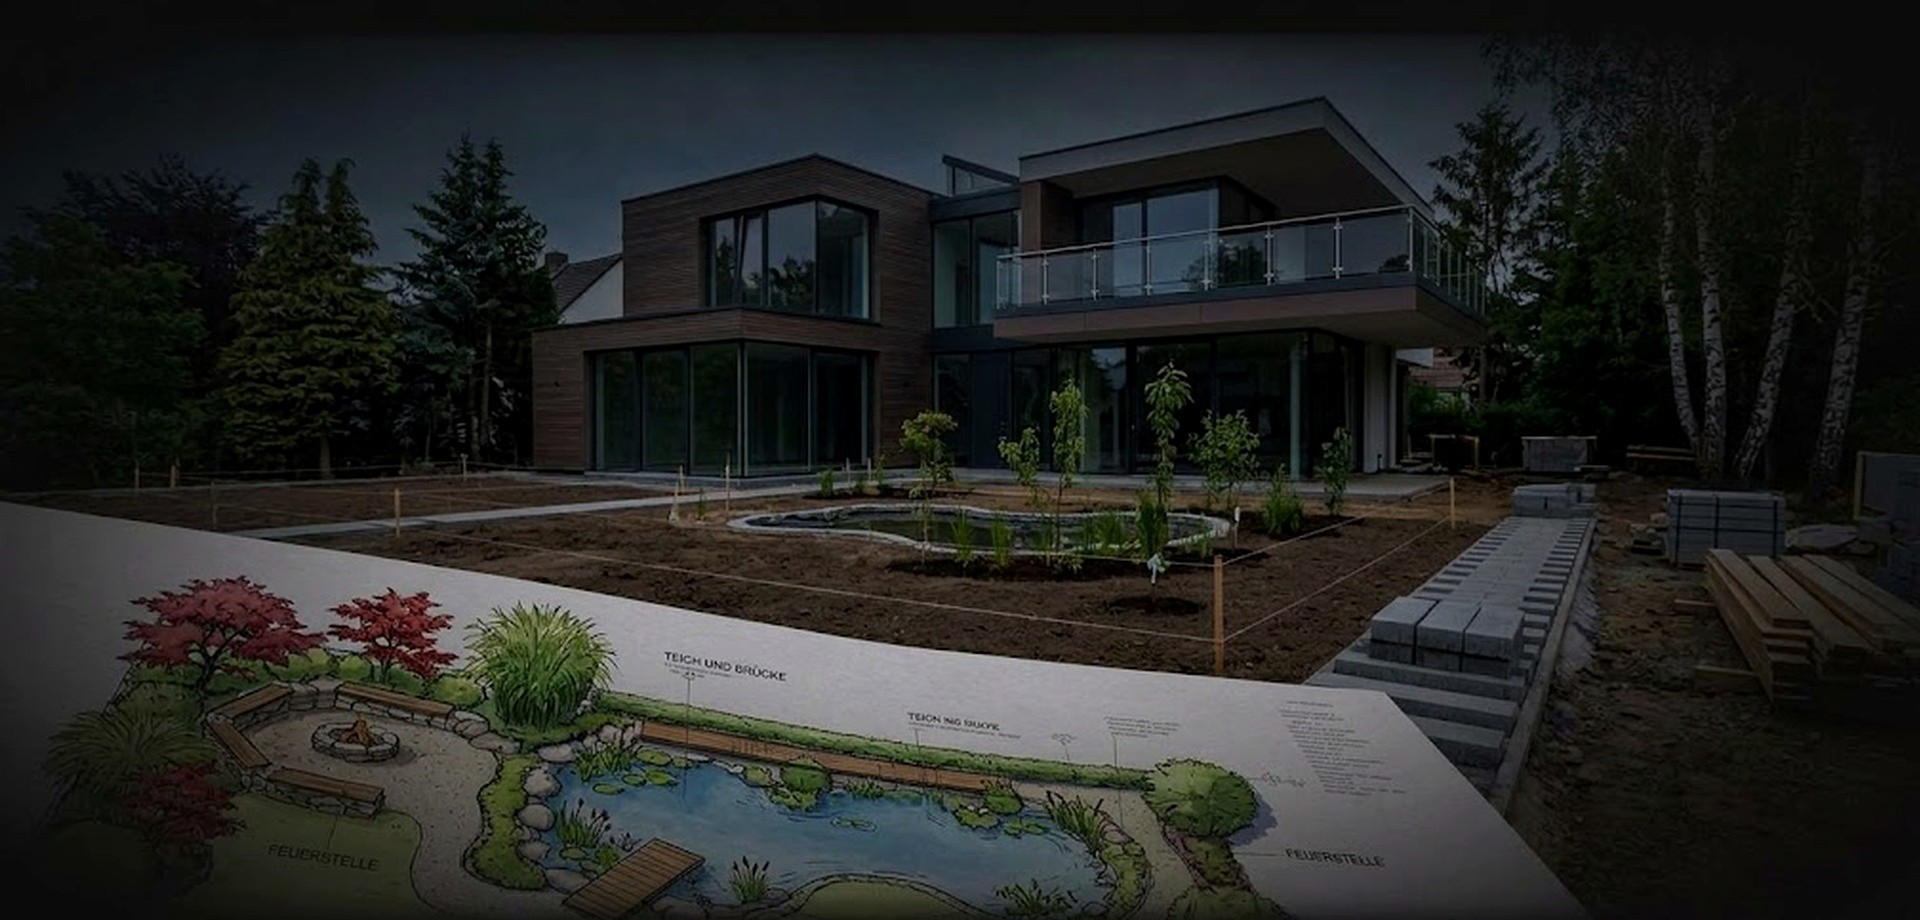
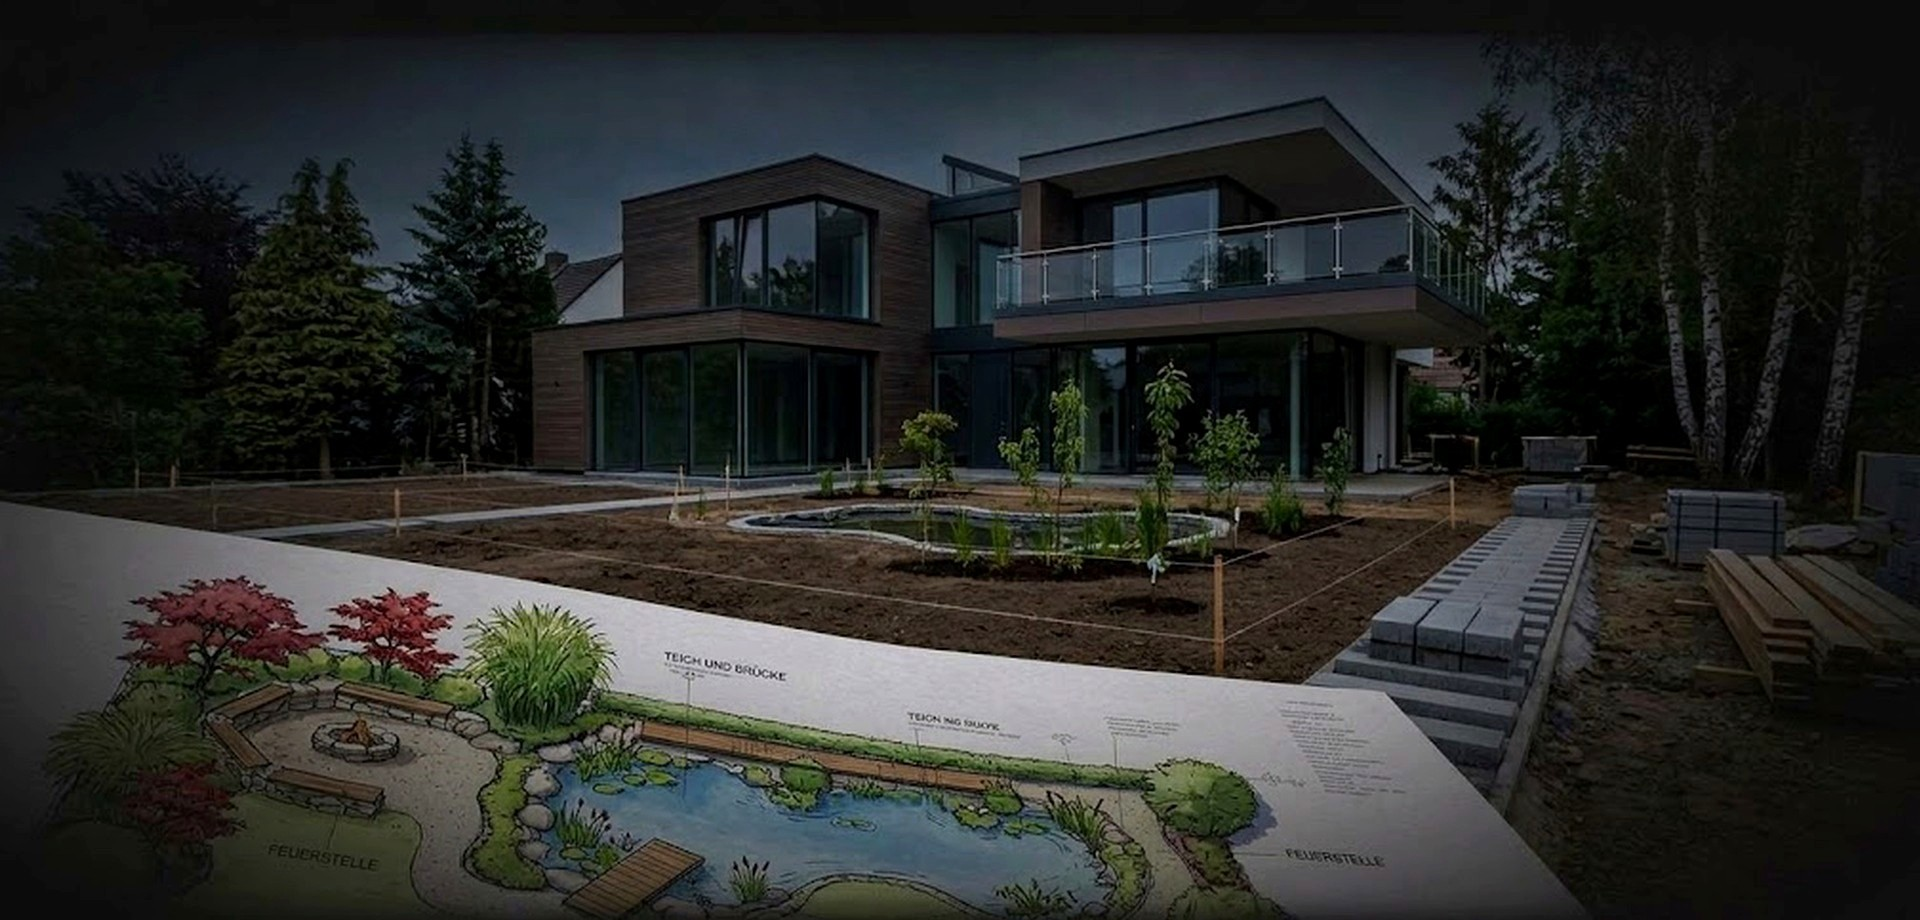
Startseite: Hero-Bild heller, Text kleiner und weiss, Label zu Meyer Gartenglanz
Claude-Session: https://claude.ai/code/session_01LmPg892E6TVTSN9vFyRnRh

Changed region(s): [[0.1875, 0.6087, 0.7188, 0.8217]]

diff --git a/index.html b/index.html
@@ -54,8 +54,8 @@ tailwind.config={theme:{extend:{"colors":{"on-error-container":"#93000a","surfac
   <div class="absolute inset-0 bg-gradient-to-r from-black/50 to-transparent"></div>
   <div class="relative z-10 w-full max-w-container-max mx-auto px-margin-mobile lg:px-margin-desktop pt-20 flex flex-col items-start">
     <div class="max-w-3xl">
-      <span class="relative inline-block font-label-sm text-primary mb-4 tracking-widest uppercase pb-2">Meisterhafte Gartengestaltung<span class="absolute left-0 -bottom-0 w-10 h-[3px] bg-primary"></span></span>
-      <h1 class="font-headline-xl text-white mb-6 leading-[1.05] uppercase text-5xl md:text-7xl font-extrabold tracking-tight">Ihr Traumgarten<br><span class="text-primary">im Thurgau.</span></h1>
+      <span class="relative inline-block font-label-sm text-white mb-4 tracking-widest uppercase pb-2">Meyer Gartenglanz<span class="absolute left-0 -bottom-0 w-10 h-[3px] bg-primary"></span></span>
+      <h1 class="font-headline-xl text-white mb-6 leading-[1.05] uppercase text-4xl md:text-6xl font-extrabold tracking-tight">Ihr Traumgarten<br>im Thurgau.</h1>
       <p class="font-body-lg text-white/90 mb-8 max-w-lg text-lg md:text-xl">Wir verwandeln Außenbereiche in persönliche Rückzugsorte.</p>
       <a href="kontakt.html" class="bg-primary text-on-primary px-8 py-4 rounded-full font-label-sm hover:scale-[1.02] transition-transform inline-flex items-center gap-2 group shadow-md shadow-primary/20">
         Jetzt Termin vereinbaren
